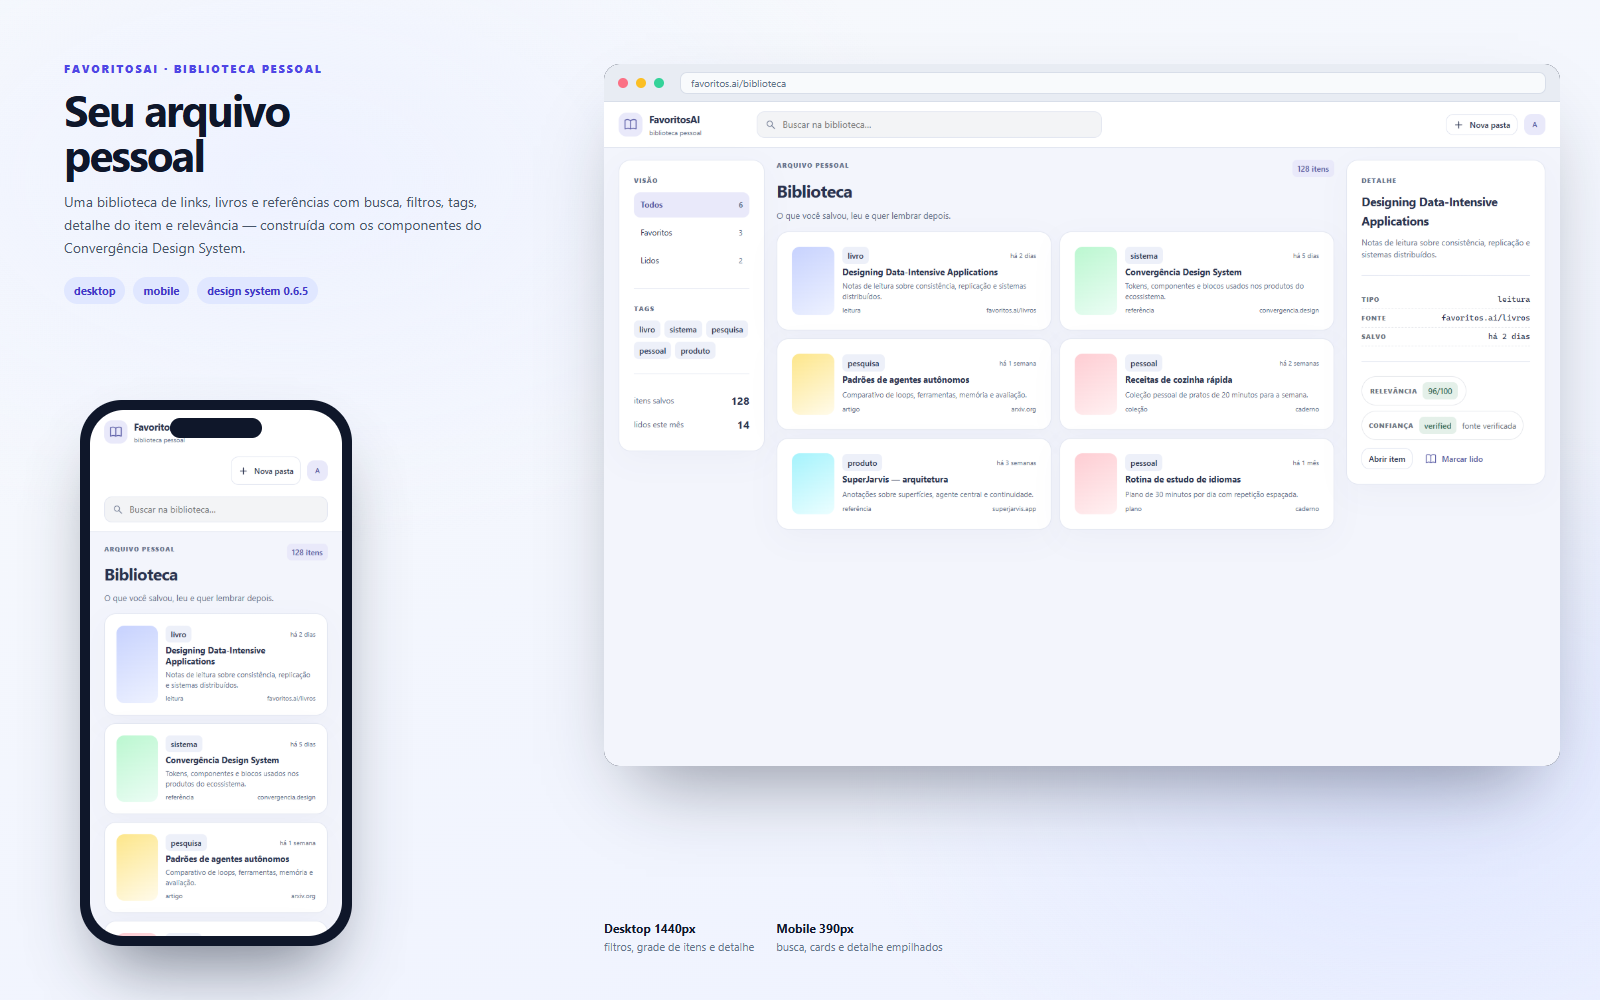
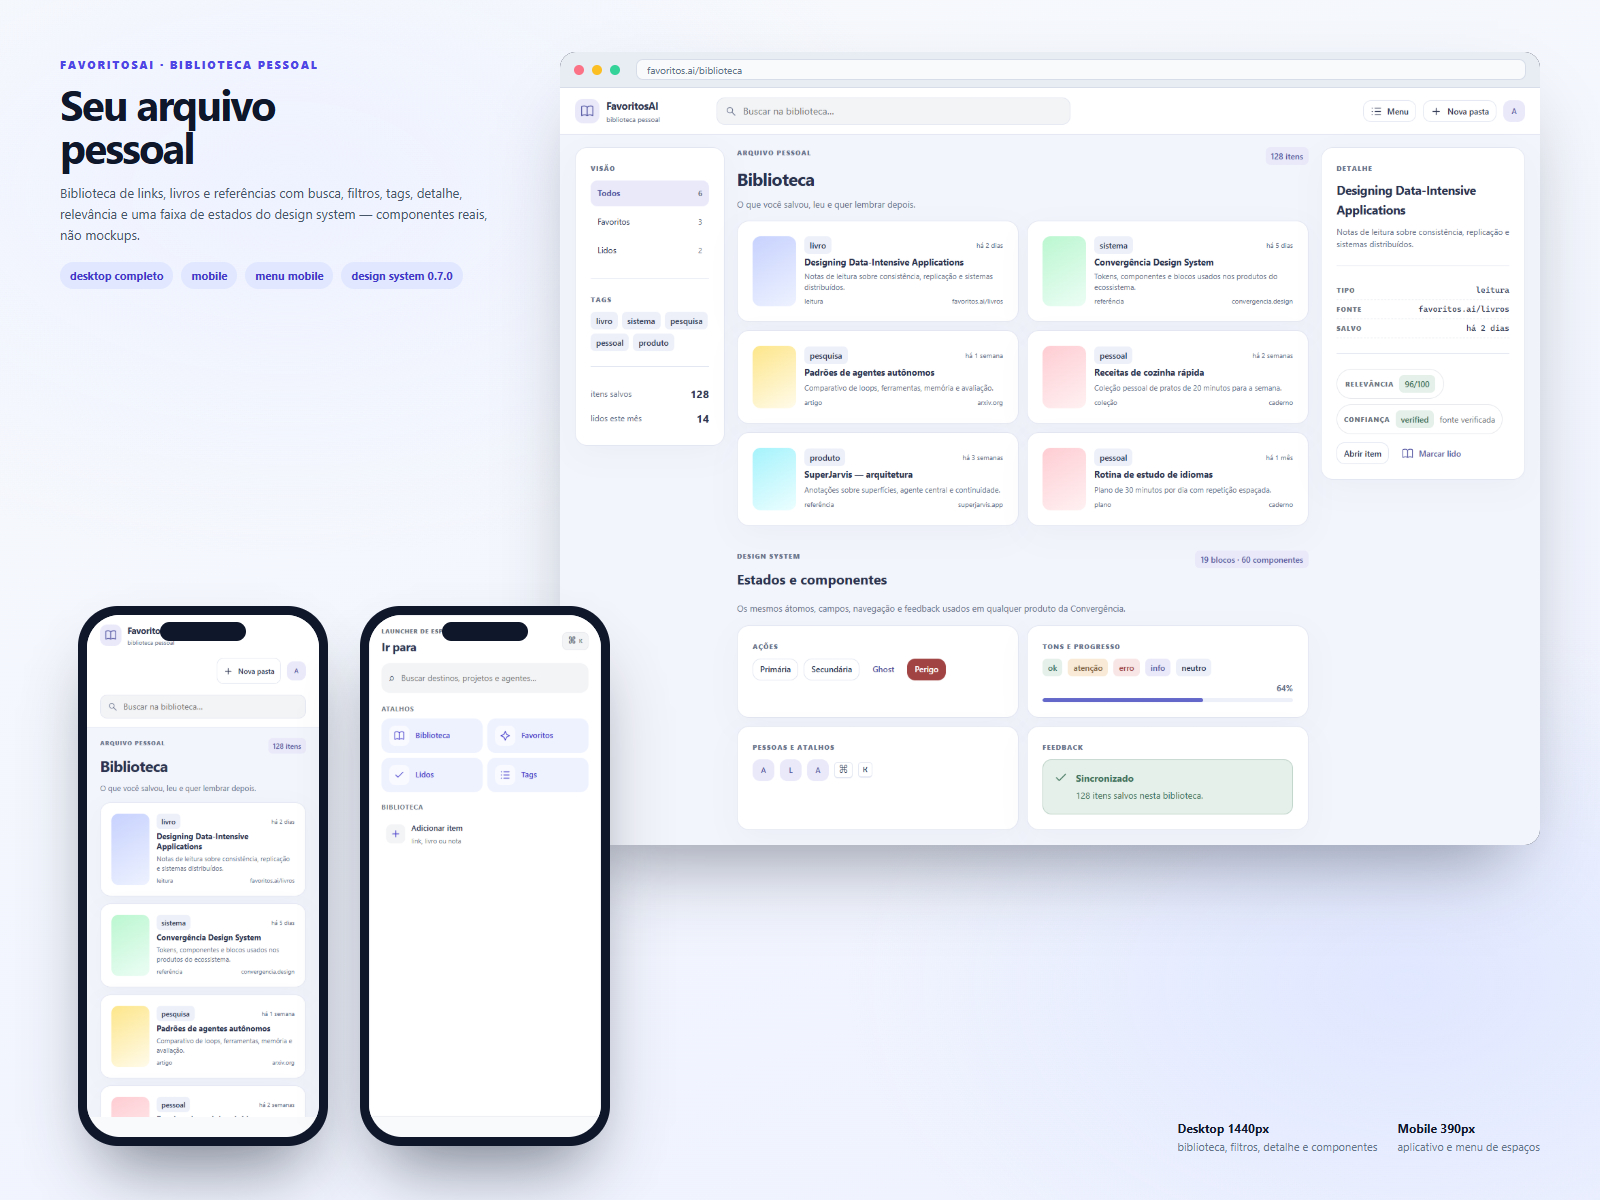
docs(sample): richer FavoritosAI portfolio with mobile menu and component strip

diff --git a/examples/favoritos/src/App.tsx b/examples/favoritos/src/App.tsx
@@ -1,12 +1,16 @@
 import { useState } from 'react';
 import {
+  Alert,
   Avatar,
   Badge,
   Button,
   Card,
   Divider,
   Icon,
+  Kbd,
+  LauncherMenu,
   MetaRow,
+  Progress,
   ScoreBadge,
   TrustBadge,
 } from '../../../src/index';
@@ -37,6 +41,7 @@ export function App() {
   const [query, setQuery] = useState('');
   const [filter, setFilter] = useState('todos');
   const [selectedId, setSelectedId] = useState('f1');
+  const [menuOpen, setMenuOpen] = useState(false);
 
   const filtered = items.filter((item) => {
     const term = query.trim().toLowerCase();
@@ -60,6 +65,7 @@ export function App() {
           <input value={query} onChange={(event) => setQuery(event.target.value)} placeholder="Buscar na biblioteca…" />
         </label>
         <div className="fav-actions">
+          <Button variant="secondary" size="sm" icon="list" onClick={() => setMenuOpen(true)}>Menu</Button>
           <Button variant="secondary" size="sm" icon="plus">Nova pasta</Button>
           <Avatar name="Ana" size="sm" />
         </div>
@@ -132,7 +138,53 @@ export function App() {
               </Card>
             ))}
           </div>
+          <section className="fav-kit">
+            <div className="fav-title">
+              <div>
+                <span className="fav-kicker">design system</span>
+                <h2>Estados e componentes</h2>
+                <p>Os mesmos átomos, campos, navegação e feedback usados em qualquer produto da Convergência.</p>
+              </div>
+              <Badge tone="accent">19 blocos · 60 componentes</Badge>
+            </div>
+            <div className="fav-kit-grid">
+              <Card>
+                <span className="fav-kicker">ações</span>
+                <div className="fav-row">
+                  <Button size="sm">Primária</Button>
+                  <Button size="sm" variant="secondary">Secundária</Button>
+                  <Button size="sm" variant="ghost">Ghost</Button>
+                  <Button size="sm" variant="danger">Perigo</Button>
+                </div>
+              </Card>
+              <Card>
+                <span className="fav-kicker">tons e progresso</span>
+                <div className="fav-row">
+                  <Badge tone="success">ok</Badge>
+                  <Badge tone="warning">atenção</Badge>
+                  <Badge tone="danger">erro</Badge>
+                  <Badge tone="accent">info</Badge>
+                  <Badge tone="neutral">neutro</Badge>
+                </div>
+                <Progress value={64} />
+              </Card>
+              <Card>
+                <span className="fav-kicker">pessoas e atalhos</span>
+                <div className="fav-row">
+                  <Avatar name="Ana" size="sm" />
+                  <Avatar name="Lia" size="sm" />
+                  <Avatar name="Atlas" size="sm" />
+                  <Kbd>⌘</Kbd><Kbd>K</Kbd>
+                </div>
+              </Card>
+              <Card>
+                <span className="fav-kicker">feedback</span>
+                <Alert tone="success" title="Sincronizado">128 itens salvos nesta biblioteca.</Alert>
+              </Card>
+            </div>
+          </section>
         </main>
+
 
         <aside className="fav-detail">
           <Card>
@@ -155,6 +207,24 @@ export function App() {
           </Card>
         </aside>
       </div>
+      {menuOpen && (
+        <div className="fav-menu-overlay" role="presentation" onClick={() => setMenuOpen(false)}>
+          <div className="fav-menu-panel" onClick={(event) => event.stopPropagation()}>
+            <LauncherMenu
+              title="Ir para"
+              fluid
+              shortcuts={[
+                { id: 'biblioteca', label: 'Biblioteca', icon: <Icon name="book" size={18} /> },
+                { id: 'favoritos', label: 'Favoritos', icon: <Icon name="spark" size={18} /> },
+                { id: 'lidos', label: 'Lidos', icon: <Icon name="check" size={18} /> },
+                { id: 'tags', label: 'Tags', icon: <Icon name="list" size={18} /> },
+              ]}
+              sections={[{ title: 'Biblioteca', items: [{ id: 'add', label: 'Adicionar item', hint: 'link, livro ou nota', icon: <Icon name="plus" size={18} /> }] }]}
+              onSelect={() => setMenuOpen(false)}
+            />
+          </div>
+        </div>
+      )}
     </div>
   );
 }

diff --git a/examples/favoritos/src/favoritos.css b/examples/favoritos/src/favoritos.css
@@ -47,3 +47,24 @@ body { margin: 0; background: var(--cv-color-background, #f8fafc); color: var(--
   .fav-search { order: 3; flex-basis: 100%; max-width: none; }
   .fav-grid { grid-template-columns: 1fr; }
 }
+
+.fav-kit { display: none; }
+.fav-row { display: flex; flex-wrap: wrap; align-items: center; gap: 8px; }
+.fav-kit { display: grid; gap: 14px; margin-top: 22px; }
+.fav-kit .fav-title h2 { font-size: 20px; }
+.fav-kit-grid { display: grid; grid-template-columns: repeat(4, minmax(0, 1fr)); gap: 12px; }
+.fav-menu-overlay { position: fixed; inset: 0; z-index: 60; display: grid; place-items: center; padding: 24px; background: rgba(15, 23, 42, 0.38); backdrop-filter: blur(6px); }
+.fav-menu-panel { width: min(880px, 94vw); max-height: 90vh; overflow: auto; border-radius: 20px; }
+@media (max-width: 1000px) {
+  .fav-kit { display: none; }
+  .fav-menu-overlay { padding: 0; place-items: stretch; }
+  .fav-menu-panel { width: 100%; height: 100vh; max-height: 100vh; border-radius: 0; }
+}
+
+.fav-kit-grid { grid-template-columns: repeat(2, minmax(0, 1fr)); }
+.fav-kit .fav-row { margin-bottom: 8px; }
+
+@media (max-width: 1000px) {
+  .fav-menu-overlay { background: #ffffff; }
+  .fav-menu-panel .cv-launcher { min-height: 100vh; border-radius: 0; background: #ffffff; }
+}
